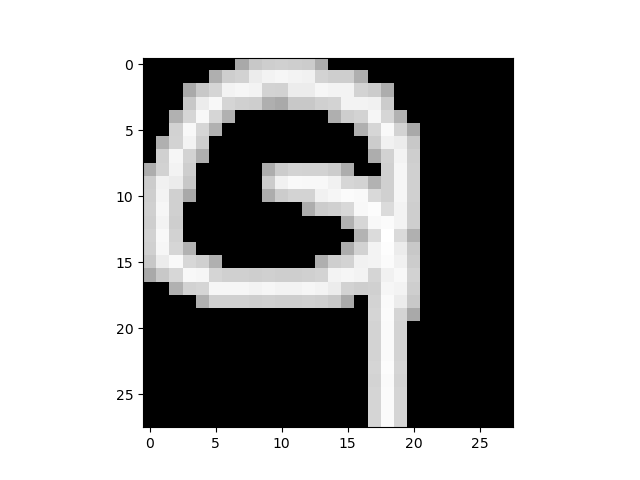
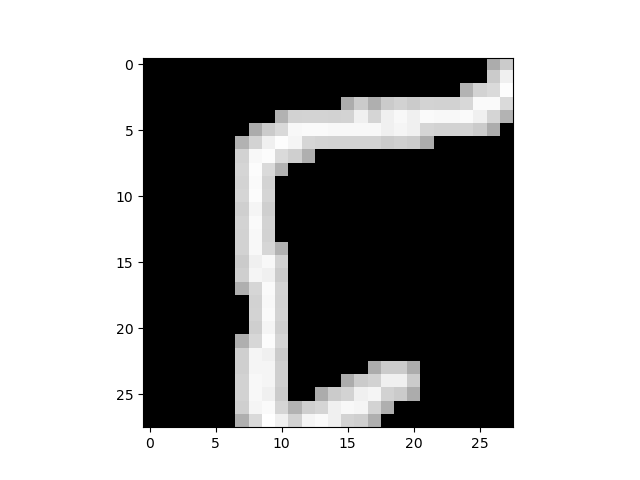
testing

Changed region(s): [[0.2188, 0.125, 0.8125, 0.9062]]

diff --git a/src/keyboard_hooks.py b/src/keyboard_hooks.py
@@ -1,37 +1,43 @@
 import evdev
 from evdev.device import InputDevice
-import keyboard
+from evdev import UInput
 import selectors
 import threading
 import time
 import platform
 
-_keyPressBuf = []
-_keyPressLock= threading.Lock()
-
 _stop = threading.Event()
+_keyPressBuf = []
+_keyPressLock = threading.Lock()
 
-def dispatcher(onFinishDraw, sameTimeDelay = 0.00, timeBetweenLetters = 0.8):
-    global _keyPressBuf
-    global _keyPressLock
+
+def dispatcher(onFinishDraw, sameTimeDelay=0.0, timeBetweenLetters=0.8):
+    global _keyPressBuf, _keyPressLock
     while not _stop.is_set():
-        time.sleep(0.1)
-        if (len(_keyPressBuf) == 0 or time.time() - _keyPressBuf[-1][1] < timeBetweenLetters):
-            continue
-        toDispatch = []
+        time.sleep(0.01)
         with _keyPressLock:
+            if not _keyPressBuf:
+                continue
+            # check if last key is older than timeBetweenLetters
+            if time.time() - _keyPressBuf[-1][1] < timeBetweenLetters:
+                continue
+
+            toDispatch = []
             sameTimeAccumulate = []
             for keystr, timestamp in _keyPressBuf:
-                if (len(sameTimeAccumulate) == 0 or timestamp - sameTimeAccumulate[-1][1] < sameTimeDelay):
+                if len(sameTimeAccumulate) == 0 or timestamp - sameTimeAccumulate[-1][1] < sameTimeDelay:
                     sameTimeAccumulate.append((keystr, timestamp))
                 else:
-                    toDispatch.append([k for k,_ in sameTimeAccumulate])
+                    toDispatch.append([k for k, _ in sameTimeAccumulate])
                     sameTimeAccumulate = []
                     toDispatch.append([keystr])
-            if len(sameTimeAccumulate) > 0:
-                toDispatch.append([k for k,_ in sameTimeAccumulate])
-        _keyPressBuf = []
-        onFinishDraw(toDispatch)
+            if sameTimeAccumulate:
+                toDispatch.append([k for k, _ in sameTimeAccumulate])
+
+            _keyPressBuf.clear()
+
+        if toDispatch:
+            onFinishDraw(toDispatch)
 
 
 def get_linux_keyboards() -> list[InputDevice]:
@@ -41,75 +47,86 @@ def get_linux_keyboards() -> list[InputDevice]:
         caps = d.capabilities()
         if evdev.ecodes.EV_KEY in caps and evdev.ecodes.EV_REL not in caps and evdev.ecodes.EV_ABS not in caps:
             kbs.append(d)
+    
     return kbs
 
+def reset_keys(kbs: list[InputDevice]):
+    with UInput() as ui:
+        for d in kbs:
+            pressed_keys = d.active_keys()
+            for code in pressed_keys:
+                ui.write(evdev.ecodes.EV_KEY, code, 0)
+        ui.syn()
 
 def linuxKeyReader(onKeyPress):
-    global _keyPressBuf
-    global _keyPressLock
-    global _stop
+    global _keyPressBuf, _keyPressLock, _stop
     selector = selectors.DefaultSelector()
-
     kbs = get_linux_keyboards()
 
+    for d in kbs:
+        d.grab()
+        selector.register(d, selectors.EVENT_READ)
+    reset_keys(kbs)
+
     try:
-        for i,d in enumerate(kbs):
-            d.grab()
-            selector.register(d, selectors.EVENT_READ, data=i)
-        localStop = False
-        while not localStop:
-            for key, mask in selector.select():
+        while not _stop.is_set():
+            for key, mask in selector.select(timeout=0.1):
                 device = key.fileobj
                 for e in device.read():
                     event = evdev.categorize(e)
                     if isinstance(event, evdev.events.KeyEvent) and event.keystate == 1 and event.keycode.startswith("KEY_"):
-                        _,keystr = event.keycode.split("_")
+                        _, keystr = event.keycode.split("_")
                         onKeyPress(keystr)
-                        if (keystr == "ESC"):
-                            localStop = True
+                        if keystr == "ESC":
+                            _stop.set()
                             return
                         with _keyPressLock:
                             _keyPressBuf.append((keystr, time.time()))
     finally:
         for d in kbs:
-            d.ungrab()
+            try:
+                d.ungrab()
+            except OSError:
+                pass
         _stop.set()
 
+
 def windowsKeyReader(onKeyPress):
-    global _keyPressBuf
-    global _keyPressLock
-    global _stop
-    
-    while True:
+    import keyboard
+    global _keyPressBuf, _keyPressLock, _stop
+    while not _stop.is_set():
         event = keyboard.read_event()
         if event.event_type == "down":
             if event.name == "unknown":
                 continue
             if event.name == "esc":
+                _stop.set()
                 break
             with _keyPressLock:
                 _keyPressBuf.append((event.name.upper(), event.time))
-    _stop.set()
-                
+
 
 def start_listener(onKeyPress, onFinishDraw):
-    producer = 0
     if platform.system() == "Linux":
-        producer = threading.Thread(target=linuxKeyReader, args=(onKeyPress,), daemon=True)
+        producer = threading.Thread(target=linuxKeyReader, args=(onKeyPress,))
     elif platform.system() == "Windows":
-        producer = threading.Thread(target=lambda : windowsKeyReader(onKeyPress), daemon=True)
+        producer = threading.Thread(target=lambda: windowsKeyReader(onKeyPress))
     else:
-        print("This is only compatible with Windows and Linux")
         raise Exception("Incompatible platform")
 
-    consumer = threading.Thread(target=lambda : dispatcher(onFinishDraw), daemon=True)
+    consumer = threading.Thread(target=lambda: dispatcher(onFinishDraw))
 
+    # start threads
     producer.start()
     consumer.start()
 
+    # block main thread until ESC is pressed
     while not _stop.is_set():
-        time.sleep(1)
+        time.sleep(0.1)
 
+    # wait for threads to clean up
+    producer.join()
+    consumer.join()
 def ofd(x):
     print(x)
 def okp(x):

diff --git a/src/prediction/ocr_model.py b/src/prediction/ocr_model.py
@@ -15,6 +15,7 @@ def get_transform():
             transforms.Normalize(
                 (0.1307,), (0.3081,)
             ),  # MNIST/EMNIST standard normalization
+            transforms.Lambda(lambda x: x.transpose(-2, -1))
         ]
     )
 